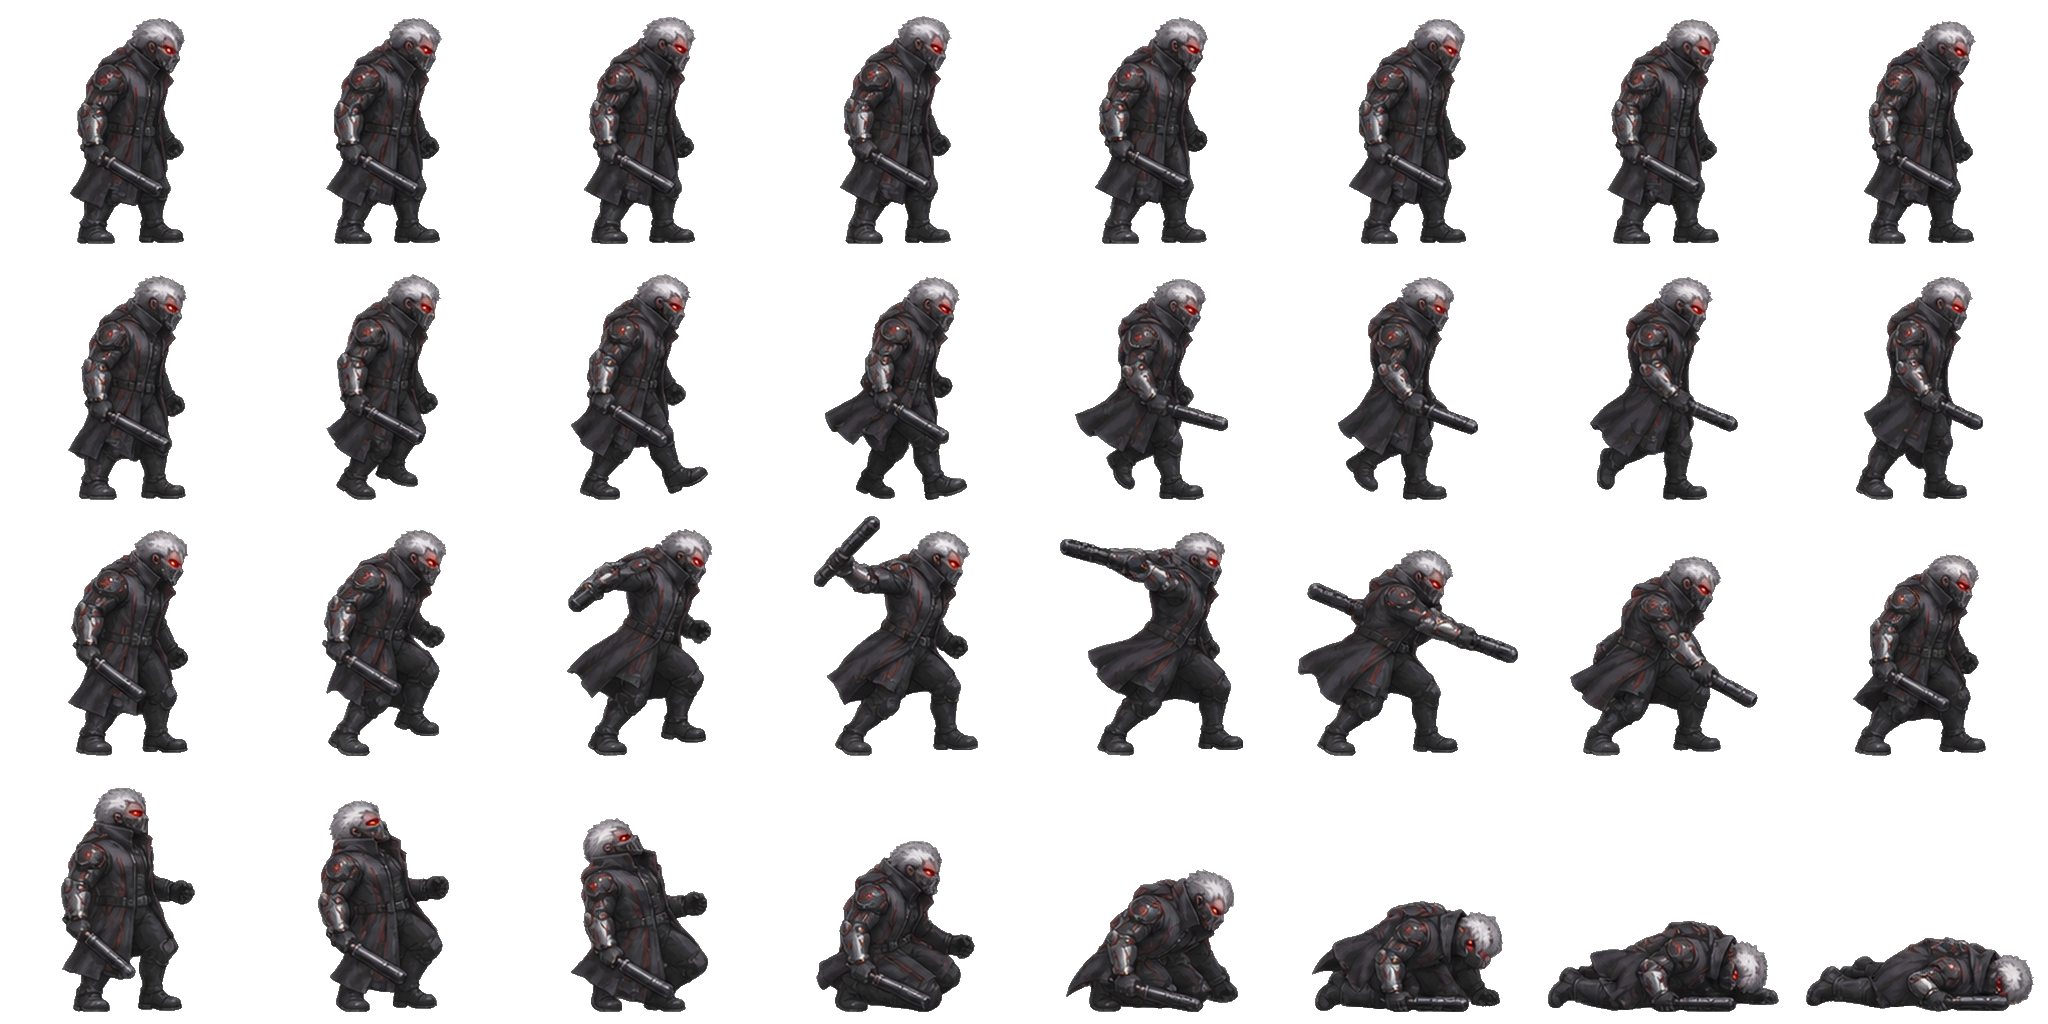
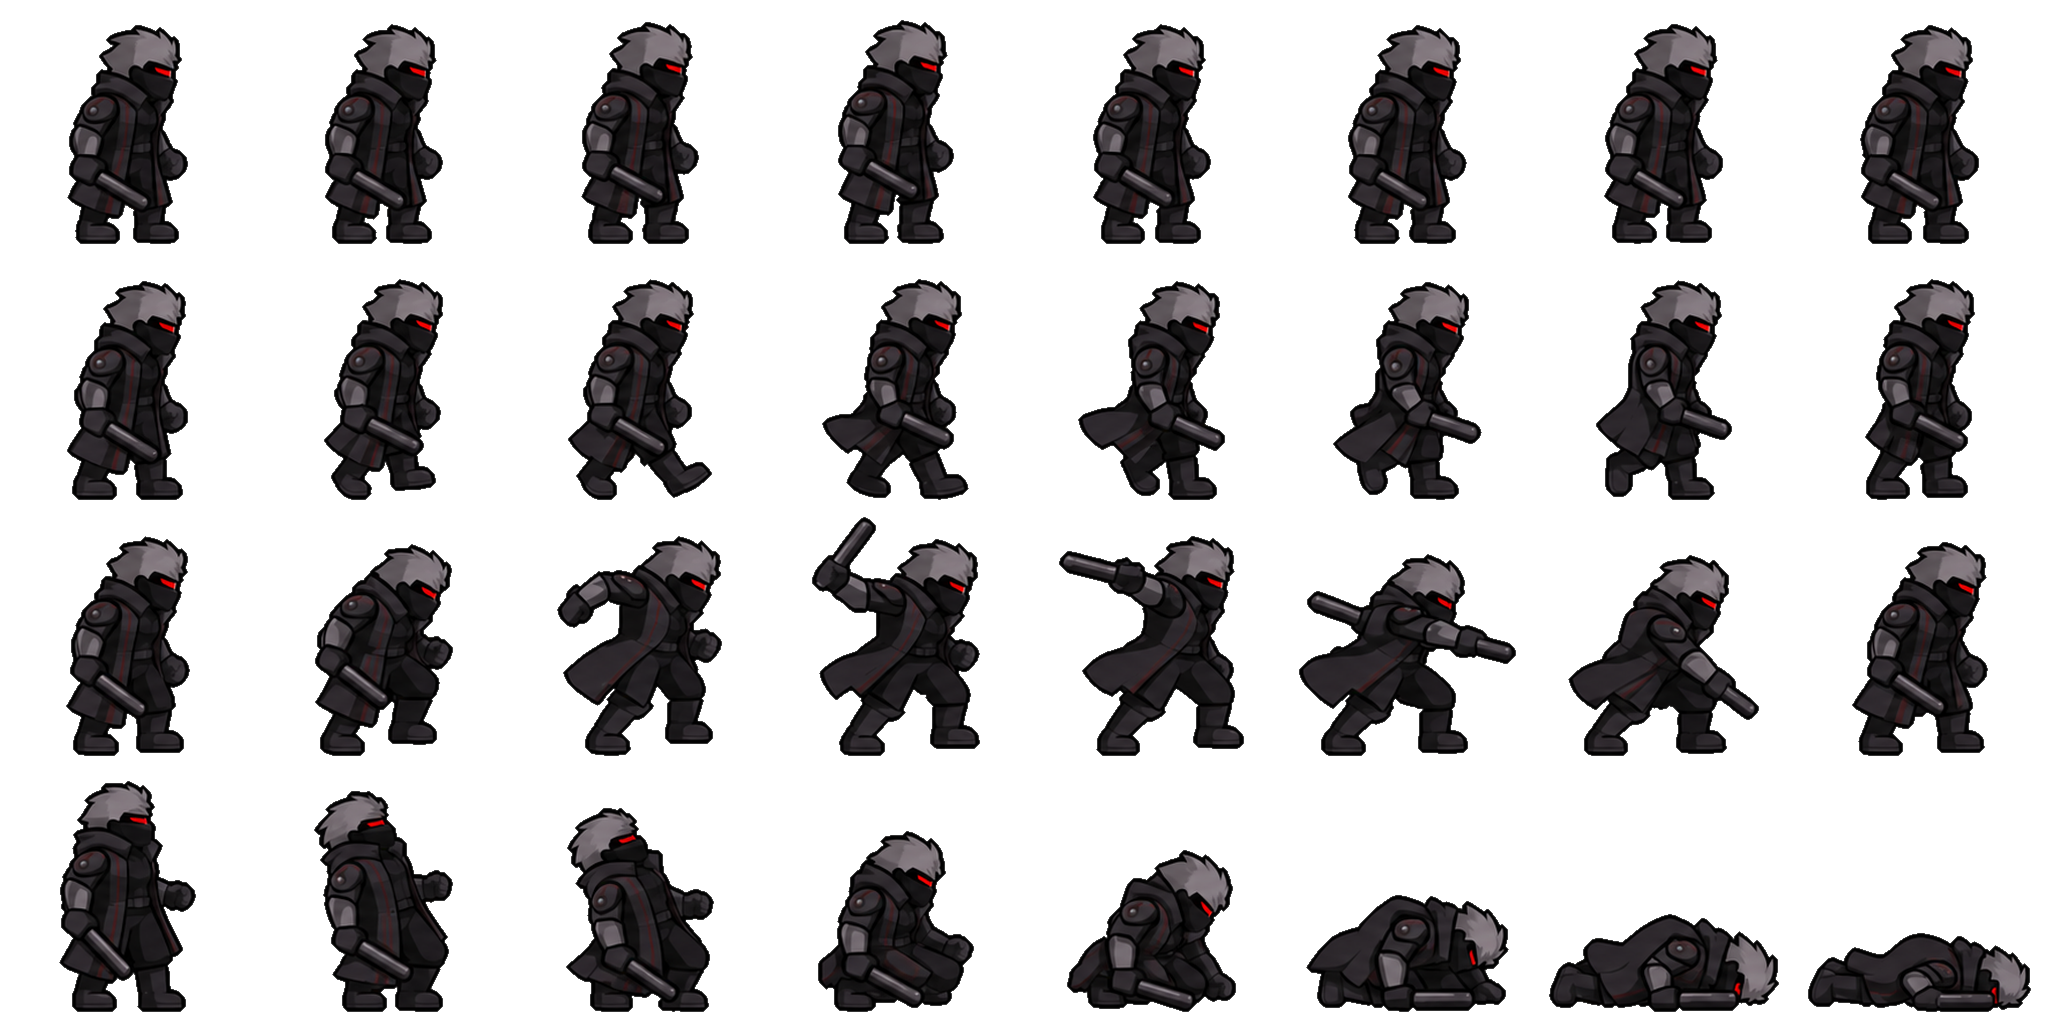
새 후드 적 스프라이트 적용과 양방향 달리기 처치 검증 추가

diff --git a/tools/verify_enemies.py b/tools/verify_enemies.py
@@ -13,7 +13,7 @@ from events import poll_events
 from game import Enemy, Player, Stage, spawn_enemy
 from rendering import draw_enemy, draw_health
 from resources import ROOT, load_images, release_images
-from settings import ARROW_X, ENEMY_DEATH_FPS, WIDTH
+from settings import ARROW_X, ATTACK_RANGE, ENEMY_DEATH_FPS, WIDTH
 from tools.verify_runtime import capture, push
 
 
@@ -143,9 +143,80 @@ def verify_encounters(output):
             "final_map_no_third_stage": "PASS", "screenshots": shots}
 
 
+def verify_running_attacks(output):
+    """Start outside reach, then hit while holding run and A in the real loop."""
+    results = []
+    for weapon in (None, "dagger", "steel_pipe"):
+        for facing in (1, -1):
+            enemy = Enemy(x=WIDTH / 2, facing=-facing)
+            stage = Stage([], enemy=enemy)
+            player = Player(x=enemy.x - facing * 500, facing=facing, weapon=weapon)
+            tick, clock = -1, 0.0
+            attack_tick = hit_tick = dead_tick = None
+            shots = []
+            label = f"{weapon or 'unarmed'}-{'right' if facing > 0 else 'left'}"
+
+            def feed(controls):
+                nonlocal tick, clock, attack_tick
+                tick += 1
+                clock = (tick + 1) / 60
+                if tick == 0:
+                    poll_events(controls)
+                    push("focus", True)
+                    push("down", "right" if facing > 0 else "left")
+                    push("down", "lshift")
+                distance = facing * (enemy.x - player.x)
+                if attack_tick is None and distance <= 145:
+                    assert distance > ATTACK_RANGE
+                    attack_tick = tick
+                    push("down", "a")
+                if dead_tick is not None and tick > dead_tick + 12:
+                    push("quit")
+                return poll_events(controls)
+
+            def observe(image, current):
+                nonlocal hit_tick, dead_tick
+                draw_health(image, current)
+                checkpoint = None
+                if tick == attack_tick:
+                    assert enemy.state == "IDLE" and current.attacking
+                    assert facing * (enemy.x - current.x) > ATTACK_RANGE
+                    checkpoint = "started-outside-range"
+                if enemy.state == "DYING" and hit_tick is None:
+                    hit_tick = tick
+                    assert attack_tick is not None and hit_tick > attack_tick
+                    assert current.attacking and current.attack_hit
+                    assert stage.visible_arrows == ()
+                    checkpoint = "hit-during-run"
+                if enemy.defeated and dead_tick is None:
+                    dead_tick = tick
+                    assert stage.visible_arrows == (1,)
+                    checkpoint = "dead-and-unlocked"
+                if enemy.state == "DYING":
+                    assert stage.visible_arrows == ()
+                if checkpoint:
+                    filename = f"enemy-running-{label}-{checkpoint}.png"
+                    capture(output / filename)
+                    shots.append(filename)
+
+            with (patch("main.Stage", return_value=stage), patch("main.Player", return_value=player),
+                  patch("main.poll_events", side_effect=feed),
+                  patch("main.perf_counter", side_effect=lambda: clock), patch("main.sleep"),
+                  patch("main.draw_health", side_effect=observe)):
+                result = main.run(frame_limit=220)
+            assert hit_tick is not None and dead_tick is not None and len(shots) == 3
+            assert stage.number == 1 and player.health == 3
+            assert not sdl2.SDL_WasInit(sdl2.SDL_INIT_VIDEO)
+            results.append({"weapon": weapon, "facing": facing, "frames": result["frames"],
+                            "attack_tick": attack_tick, "hit_tick": hit_tick, "dead_tick": dead_tick,
+                            "running_hit_and_unlock": "PASS", "screenshots": shots})
+    return results
+
+
 if __name__ == "__main__":
     output = ROOT / "artifacts"
     output.mkdir(exist_ok=True)
-    result = {"pose_screenshots": verify_gallery(output), "encounters": verify_encounters(output)}
+    result = {"pose_screenshots": verify_gallery(output), "encounters": verify_encounters(output),
+              "running_attacks": verify_running_attacks(output)}
     (output / "enemies-runtime.json").write_text(json.dumps(result, indent=2), encoding="utf-8")
     print(json.dumps(result, indent=2))

diff --git a/settings.py b/settings.py
@@ -65,7 +65,7 @@ WEAPON_CARRY_ANGLE = 90
 WEAPON_ATTACK_ANGLES = (90, 120, 65, 20, -10, 40, 75, 90)
 # Grip coordinates in the original item's image, normalized from bottom-left.
 WEAPON_GRIPS = {"dagger": (0.20, 0.50), "steel_pipe": (0.90, 0.35)}
-ENEMY_SOURCE = "enemy_pico2d_2048x1024.png"
+ENEMY_SOURCE = "hood_man_enemy_pico2d_2048x1024.png"
 ENEMY_SCALE = 0.6
 ENEMY_IDLE_FPS = 6
 ENEMY_DEATH_FPS = 8
